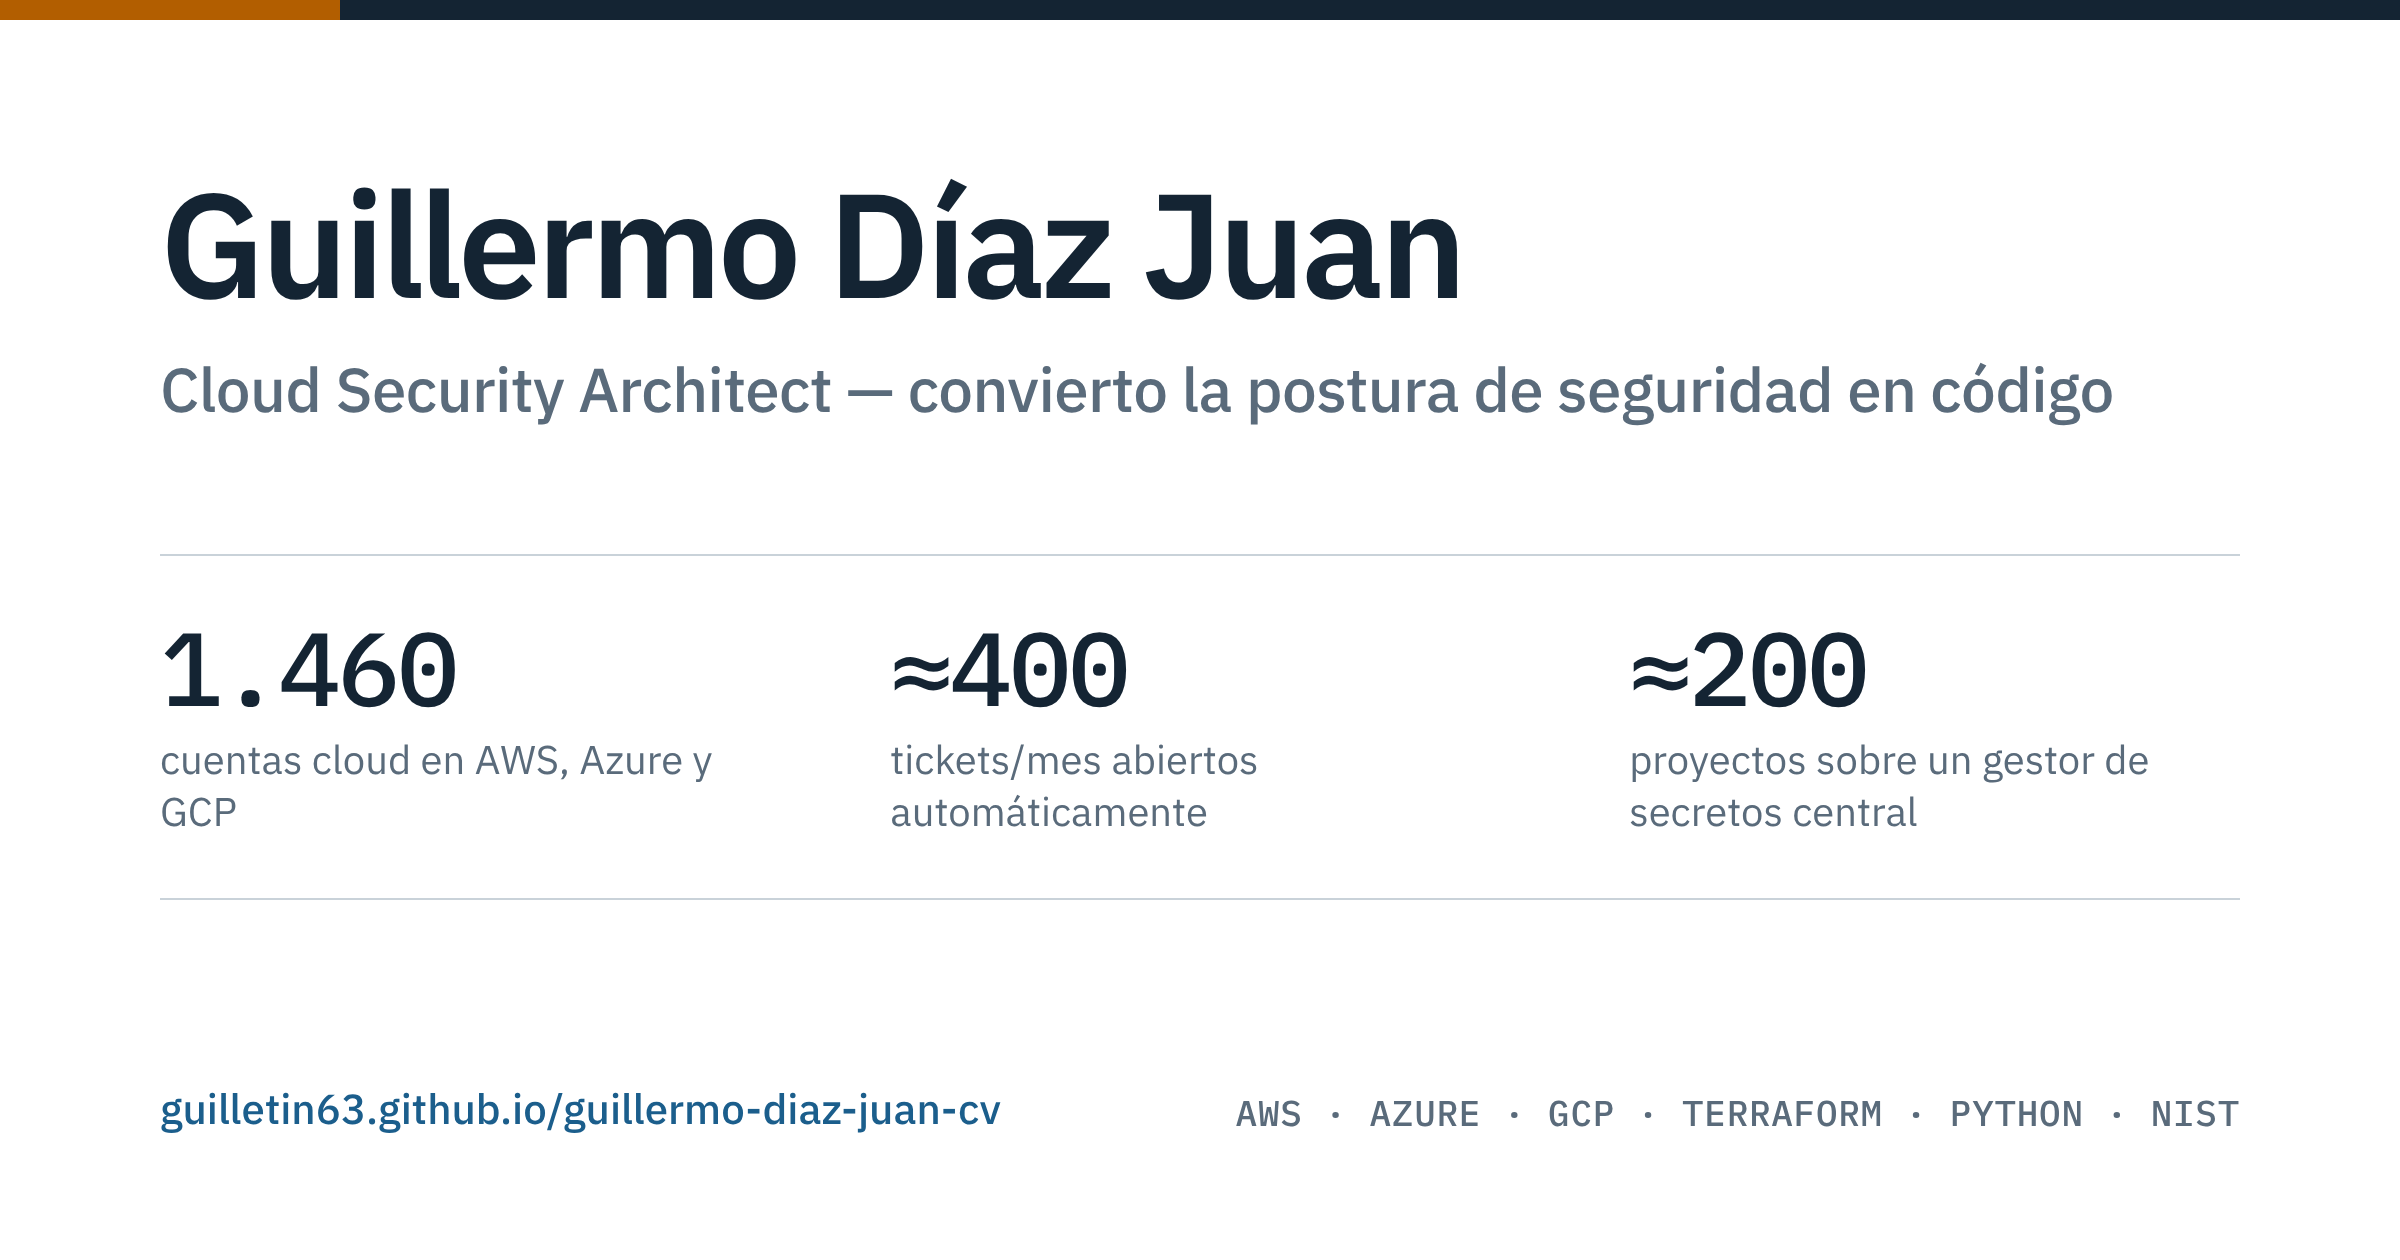
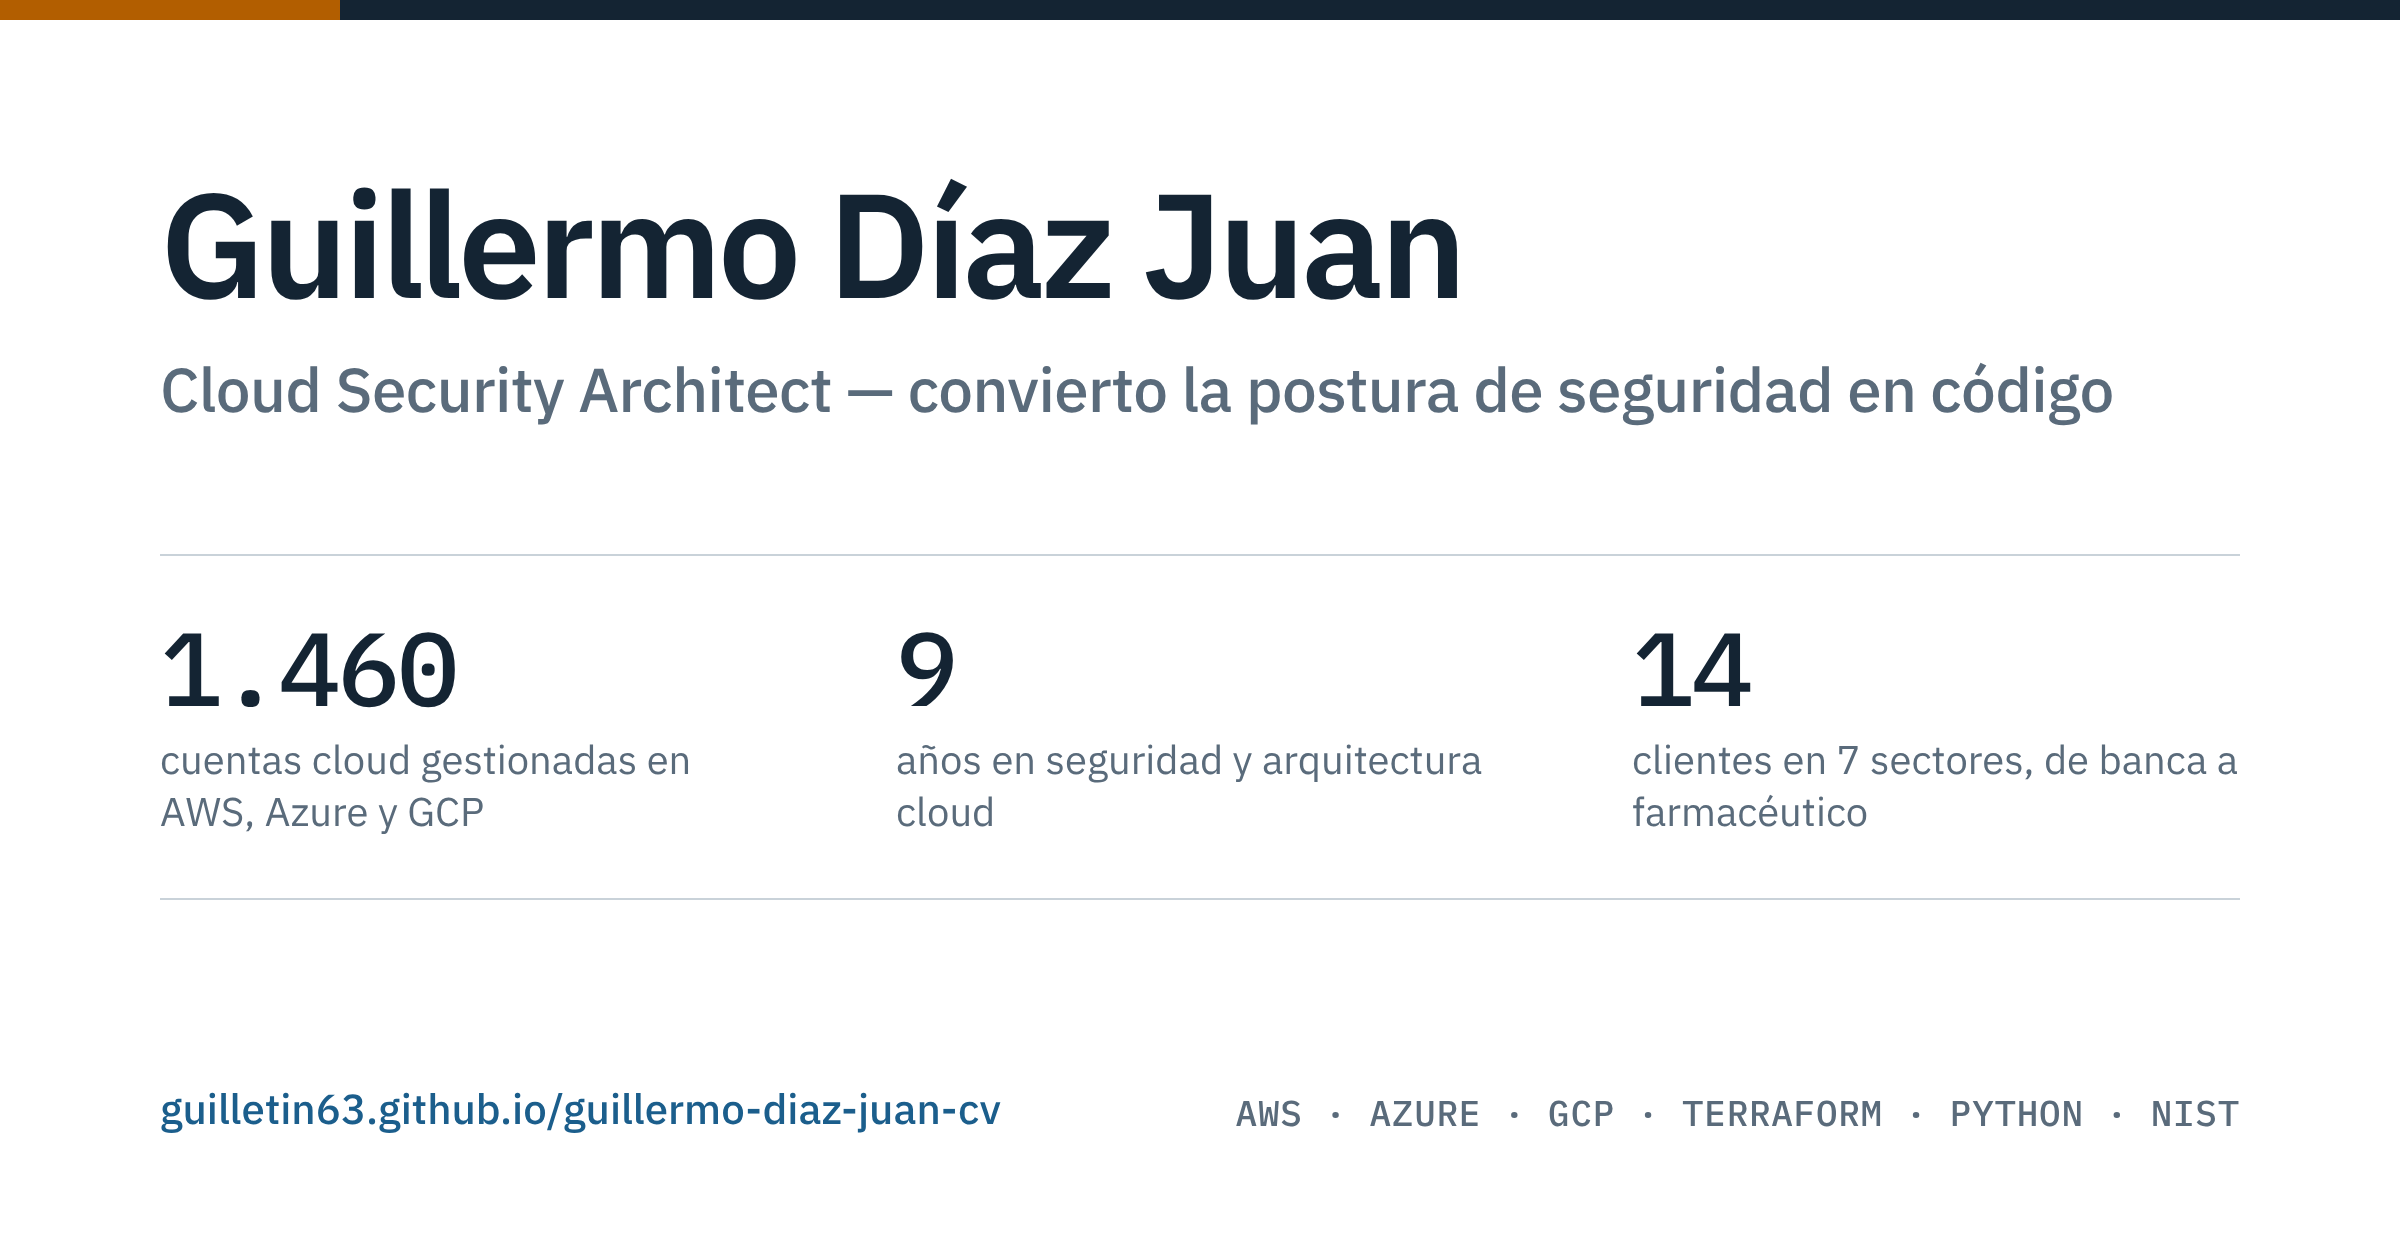
Change the headline figures to scale, tenure and breadth
The proof strip and the Open Graph card now lead with 1,460 accounts
managed, 9 years and 14 clients across 7 sectors, in place of the ticket
and project counts. Client count is the distinct end clients named in the
CV; the year count runs from the first role in June 2017.

The Open Graph description and image alt text carried the old figures
too, so both are updated to match.

Claude-Session: https://claude.ai/code/session_012GFM966SgYvSXdMHDVjqBD

diff --git a/index.html b/index.html
@@ -10,17 +10,17 @@
 <meta property="og:type" content="profile">
 <meta property="og:site_name" content="Guillermo Díaz Juan — CV">
 <meta property="og:title" content="Guillermo Díaz Juan — Cloud Security Architect">
-<meta property="og:description" content="Nueve años convirtiendo la postura de seguridad en código: 1.460 cuentas cloud en AWS, Azure y GCP, ~400 tickets al mes abiertos automáticamente, ~200 proyectos sobre un gestor de secretos central.">
+<meta property="og:description" content="Nueve años convirtiendo la postura de seguridad en código: 1.460 cuentas cloud gestionadas en AWS, Azure y GCP para 14 clientes de banca, farmacéutico, telecomunicaciones, energía y retail.">
 <meta property="og:url" content="https://guilletin63.github.io/guillermo-diaz-juan-cv/">
 <meta property="og:image" content="https://guilletin63.github.io/guillermo-diaz-juan-cv/og.png">
 <meta property="og:image:width" content="2400">
 <meta property="og:image:height" content="1260">
-<meta property="og:image:alt" content="Guillermo Díaz Juan, Cloud Security Architect. 1.460 cuentas cloud, ~400 tickets al mes, ~200 proyectos.">
+<meta property="og:image:alt" content="Guillermo Díaz Juan, Cloud Security Architect. 1.460 cuentas cloud, 9 años de experiencia, 14 clientes.">
 <meta property="og:locale" content="es_ES">
 <meta property="og:locale:alternate" content="en_GB">
 <meta name="twitter:card" content="summary_large_image">
 <meta name="twitter:title" content="Guillermo Díaz Juan — Cloud Security Architect">
-<meta name="twitter:description" content="1.460 cuentas cloud en AWS, Azure y GCP. ~400 tickets al mes abiertos automáticamente. ~200 proyectos sobre un gestor de secretos central.">
+<meta name="twitter:description" content="1.460 cuentas cloud gestionadas en AWS, Azure y GCP. 9 años en seguridad y arquitectura cloud. 14 clientes en 7 sectores.">
 <meta name="twitter:image" content="https://guilletin63.github.io/guillermo-diaz-juan-cv/og.png">
 <link rel="canonical" href="https://guilletin63.github.io/guillermo-diaz-juan-cv/">
 <link rel="preconnect" href="https://fonts.googleapis.com">
@@ -591,7 +591,7 @@ const UI = {
     permit:"Nacionalidad UE · disponibilidad para trabajar en toda la Unión Europea",
     mail:"guilletin63@gmail.com", linkedin:"LinkedIn",
     lede:"En la mayoría de organizaciones con varios cientos de cuentas cloud, la postura de seguridad vive en un informe que nadie cierra: hallazgos críticos abiertos desde hace meses, un responsable nominal y ninguna fecha. Eso es lo que yo cierro. Nueve años convirtiendo la postura en código, tickets y controles con dueño y fecha.",
-    proof:[["1.460","cuentas cloud en AWS, Azure y GCP"],["≈400","tickets/mes abiertos automáticamente"],["≈200","proyectos sobre un gestor de secretos central"]],
+    proof:[["1.460","cuentas cloud gestionadas en AWS, Azure y GCP"],["9","años en seguridad y arquitectura cloud"],["14","clientes en 7 sectores, de banca a farmacéutico"]],
     certs:"Certificaciones y formación", certsNote:"Security Engineering on AWS · Smart Cybersecurity with Microsoft",
     print:"Descargar PDF",
     filters:"Buscar y filtrar",
@@ -615,7 +615,7 @@ const UI = {
     permit:"EU national · available to work across the European Union",
     mail:"guilletin63@gmail.com", linkedin:"LinkedIn",
     lede:"In most organisations running several hundred cloud accounts, security posture lives in a report nobody closes: critical findings open for months, a nominal owner and no date. That is what I close. Nine years turning posture into code, tickets and controls with an owner and a date.",
-    proof:[["1,460","cloud accounts across AWS, Azure and GCP"],["≈400","tickets/month raised automatically"],["≈200","projects on a central secret manager"]],
+    proof:[["1,460","cloud accounts managed across AWS, Azure and GCP"],["9","years in cloud security and architecture"],["14","clients across 7 sectors, from banking to pharma"]],
     certs:"Certifications and training", certsNote:"Security Engineering on AWS · Smart Cybersecurity with Microsoft",
     print:"Download PDF",
     filters:"Search and filter",
